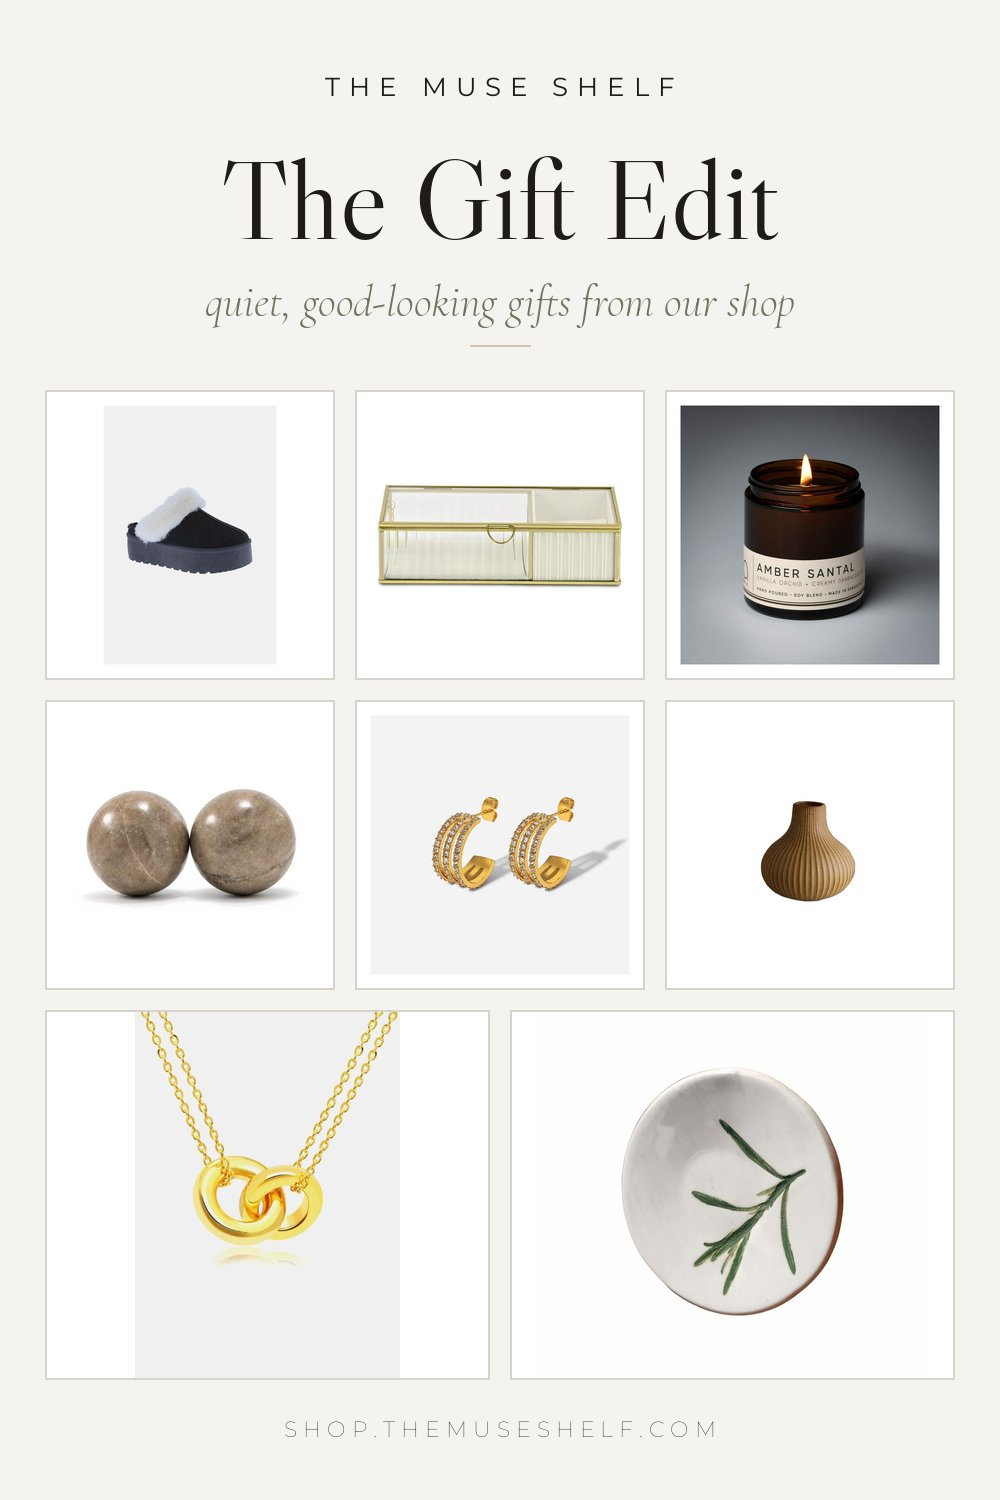
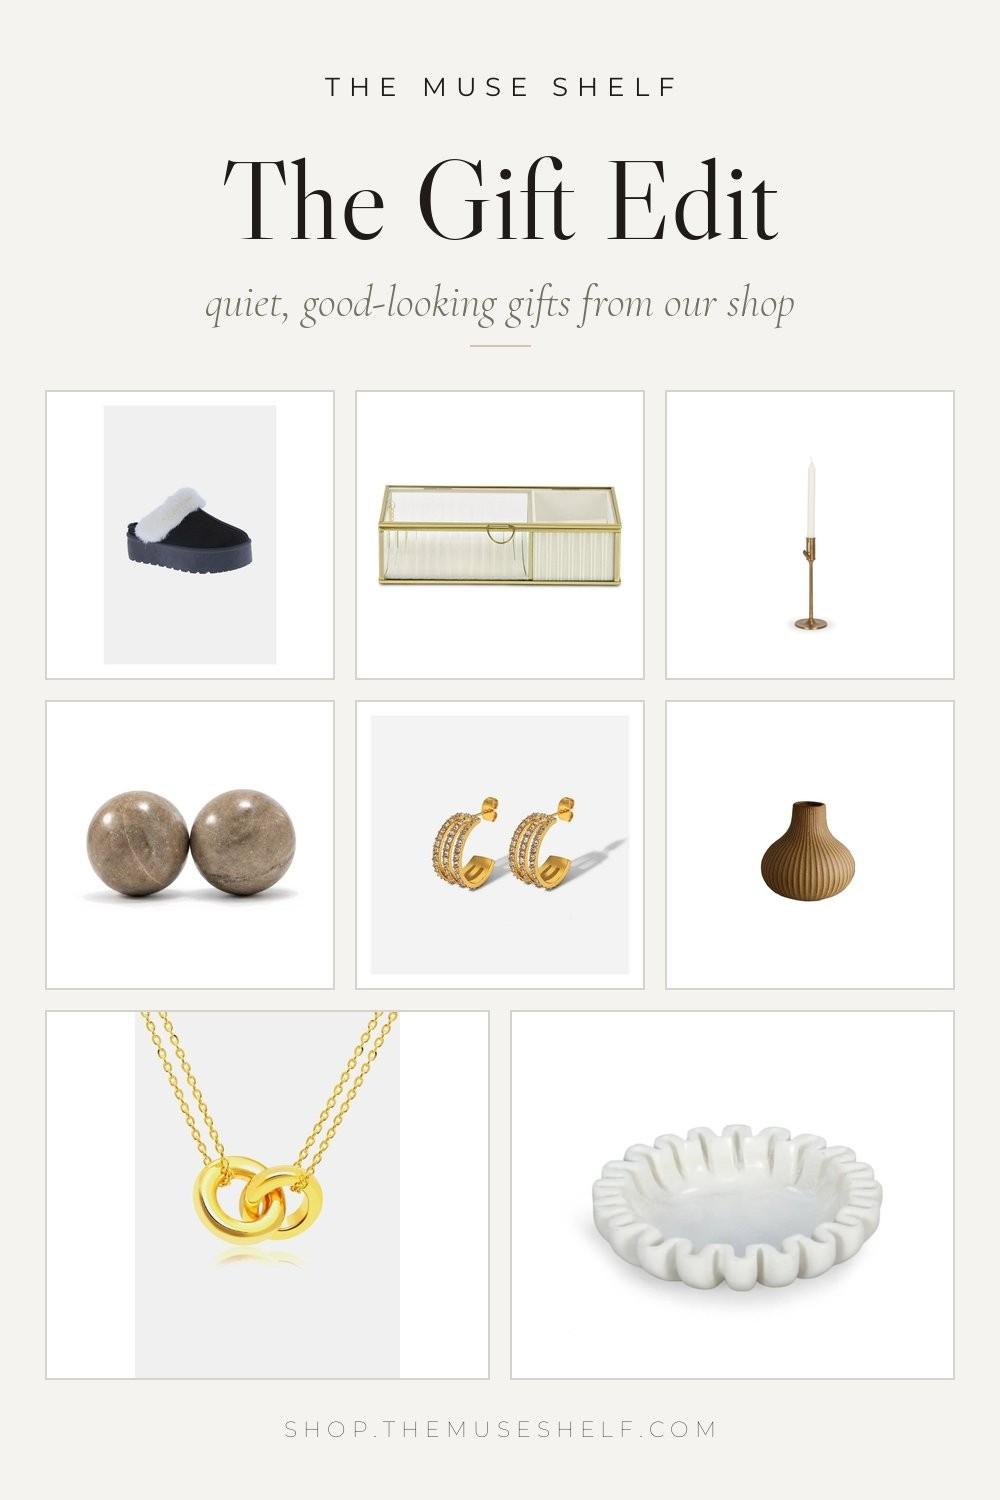
Shop blocks: swap sold-out Collective candle + trinket dish for in-stock items (Gift Edit + 4 posts); refresh Gift Edit pin

Changed region(s): [[0.682, 0.2453, 0.961, 0.46], [0.589, 0.7053, 0.899, 0.8893]]

diff --git a/src/js/content.js b/src/js/content.js
@@ -84,16 +84,16 @@ var POSTS = [
     category: 'gift-guides',
     date: '2026-10-28',
     shopOnly: true,
-    description: 'The Muse Shelf Gift Edit: eight gifts from our own shop, from faux fur slippers and a gold glass jewelry box to marble orbs and a soy candle.',
+    description: 'The Muse Shelf Gift Edit: eight gifts from our own shop, from faux fur slippers and a gold glass jewelry box to marble orbs and a brass candlestick.',
     intro: 'This edit comes from our own shop. Eight gifts we would be glad to give or get: small, good-looking pieces for the dresser, the vanity and the coffee table, plus a few things to wear. Every one ships from the US.',
     image: 'assets/pins/the-muse-shelf-gift-edit.jpg',
-    imageAlt: 'The Muse Shelf Gift Edit: faux fur slippers, a gold glass jewelry box, an amber soy candle, beige marble orbs, gold zircon hoop earrings, a ribbed bud vase, a gold linked ring necklace and a ceramic trinket dish',
+    imageAlt: 'The Muse Shelf Gift Edit: faux fur slippers, a gold glass jewelry box, a brass taper candlestick, beige marble orbs, gold zircon hoop earrings, a ribbed bud vase, a gold linked ring necklace and a scalloped marble trinket tray',
     products: [],
     shopPicks: [
       { handle: 'weeboo-thick-bottom-fur-trim-snow-slippers', note: 'Soft faux fur cuffs on a thick, grippy sole: the pair she will actually wear every morning.' },
       { handle: 'gold-glass-two-section-jewelry-box-10-in', note: 'Ribbed glass with a thin gold frame, two sections for everyday pieces, and pretty enough to leave out on the dresser.' },
-      { handle: 'amber-santal-soy-blend-candle-sweet-amber-creamy-sandalwood-vanilla-orchid', note: 'Warm amber and creamy sandalwood in an amber glass jar, hand poured in small batches.' },
-      { handle: 'trinket-dish-moonburn-creations', note: 'A small handmade ceramic dish with a pressed rosemary sprig, for rings by the sink or the bedside.' },
+      { handle: 'antiqued-brass-taper-candlestick-10-in', note: 'An antiqued brass taper holder that makes one candle look like a styled moment: easy to give, easy to love.' },
+      { handle: 'scalloped-marble-trinket-tray-6-in', note: 'A small handmade white marble tray with a scalloped edge, for rings and earrings on the vanity.' },
       { handle: 'stainless-steel-inlaid-zircon-c-hoop-earrings', note: 'Gold C-hoops lined with tiny zircon stones: dressy enough for dinner, easy enough for every day.' },
       { handle: 'linked-ring-pendant-chain-necklace', note: 'Two interlocked gold rings on a fine chain, an easy gift for a sister, a best friend or a mom.' },
       { handle: 'beige-marble-decorative-orbs-set-of-2', note: 'A pair of polished beige marble orbs for a coffee table or bookshelf: a quiet gift for someone who loves her home.' },
@@ -2913,11 +2913,11 @@ var SHOP_IN_POSTS = {
   'christmas-entryway-table-decor': ['gold-arch-wall-mirror-35-in', 'antiqued-brass-taper-candlestick-10-in', 'cream-ceramic-table-vase-10-in', 'cream-ceramic-beehive-table-lamp-17-in'],
   'how-to-style-a-coffee-table': ['beige-marble-decorative-orbs-set-of-2', 'cream-ceramic-pedestal-bowl-12-in', 'sand-ribbed-ceramic-bud-vase-6-in', 'antiqued-brass-taper-candlestick-10-in'],
   'christmas-mantle-decor-that-looks-expensive': ['gold-arch-wall-mirror-35-in', 'antiqued-brass-taper-candlestick-10-in', 'cream-ceramic-table-vase-10-in', 'beige-marble-decorative-orbs-set-of-2'],
-  'christmas-table-decor-ideas': ['antiqued-brass-taper-candlestick-10-in', 'cream-ceramic-pedestal-bowl-12-in', 'white-marble-round-bowl-7-in', 'amber-santal-soy-blend-candle-sweet-amber-creamy-sandalwood-vanilla-orchid'],
+  'christmas-table-decor-ideas': ['antiqued-brass-taper-candlestick-10-in', 'cream-ceramic-pedestal-bowl-12-in', 'white-marble-round-bowl-7-in', 'cream-ceramic-table-vase-10-in'],
   'greenery-bedroom-ideas': ['beige-ribbed-cotton-pillows-with-fringe-set-of-2', 'cream-ceramic-beehive-table-lamp-17-in', 'sand-ribbed-ceramic-bud-vase-6-in', 'cream-ceramic-table-vase-10-in'],
-  'neutral-bathroom-finds-that-look-high-end': ['scalloped-marble-trinket-tray-6-in', 'white-marble-round-bowl-7-in', 'trinket-dish-moonburn-creations', 'amber-santal-soy-blend-candle-sweet-amber-creamy-sandalwood-vanilla-orchid'],
-  'vanity-organization-finds-that-look-luxe': ['gold-glass-two-section-jewelry-box-10-in', 'scalloped-marble-trinket-tray-6-in', 'trinket-dish-moonburn-creations'],
-  'gift-ideas-for-her-under-50': ['linked-ring-pendant-chain-necklace', 'stainless-steel-inlaid-zircon-c-hoop-earrings', 'weeboo-thick-bottom-fur-trim-snow-slippers', 'amber-santal-soy-blend-candle-sweet-amber-creamy-sandalwood-vanilla-orchid'],
+  'neutral-bathroom-finds-that-look-high-end': ['scalloped-marble-trinket-tray-6-in', 'white-marble-round-bowl-7-in', 'sand-ribbed-ceramic-bud-vase-6-in'],
+  'vanity-organization-finds-that-look-luxe': ['gold-glass-two-section-jewelry-box-10-in', 'scalloped-marble-trinket-tray-6-in', 'sand-ribbed-ceramic-bud-vase-6-in'],
+  'gift-ideas-for-her-under-50': ['linked-ring-pendant-chain-necklace', 'stainless-steel-inlaid-zircon-c-hoop-earrings', 'weeboo-thick-bottom-fur-trim-snow-slippers', 'sand-ribbed-ceramic-bud-vase-6-in'],
   'housewarming-gifts-that-look-expensive': ['beige-marble-decorative-orbs-set-of-2', 'cream-ceramic-table-vase-10-in', 'antiqued-brass-taper-candlestick-10-in', 'white-marble-round-bowl-7-in'],
   'anthropologie-mirror-dupes': ['gold-arch-wall-mirror-35-in', 'antiqued-brass-taper-candlestick-10-in', 'cream-ceramic-table-vase-10-in']
 };
